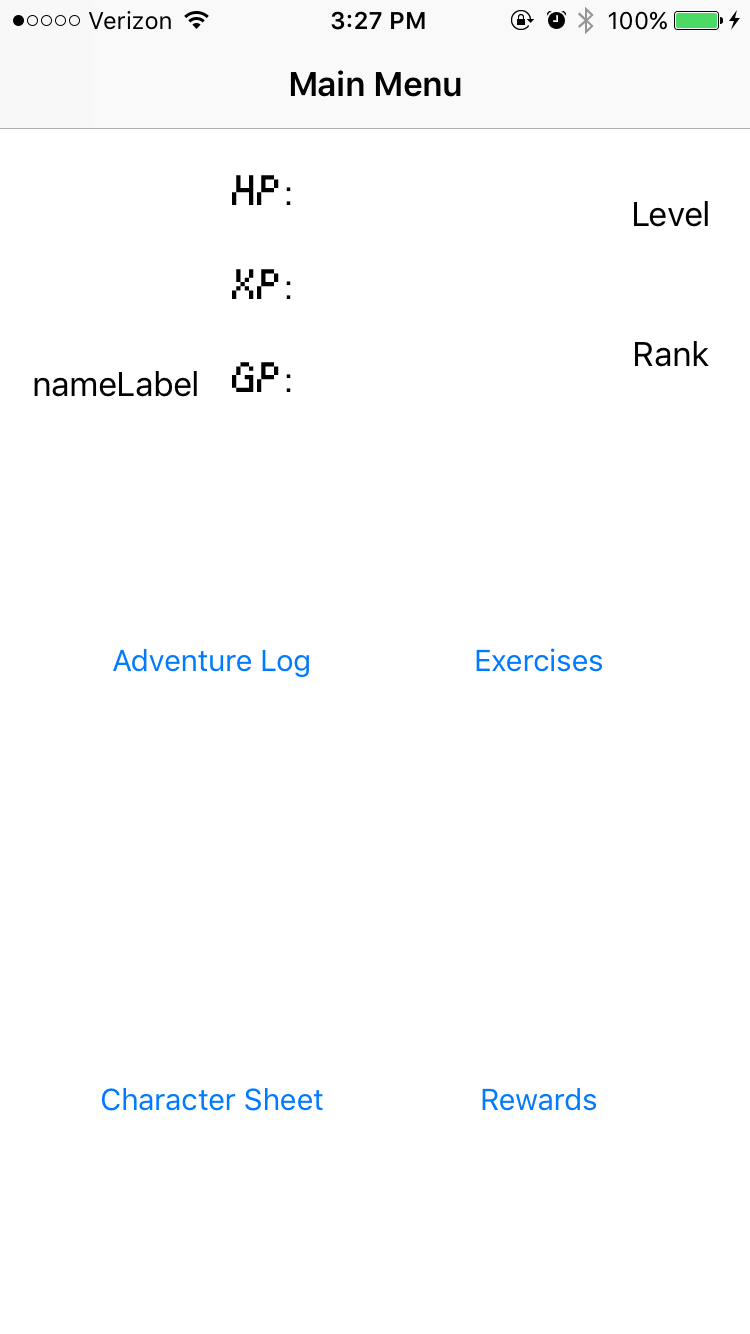
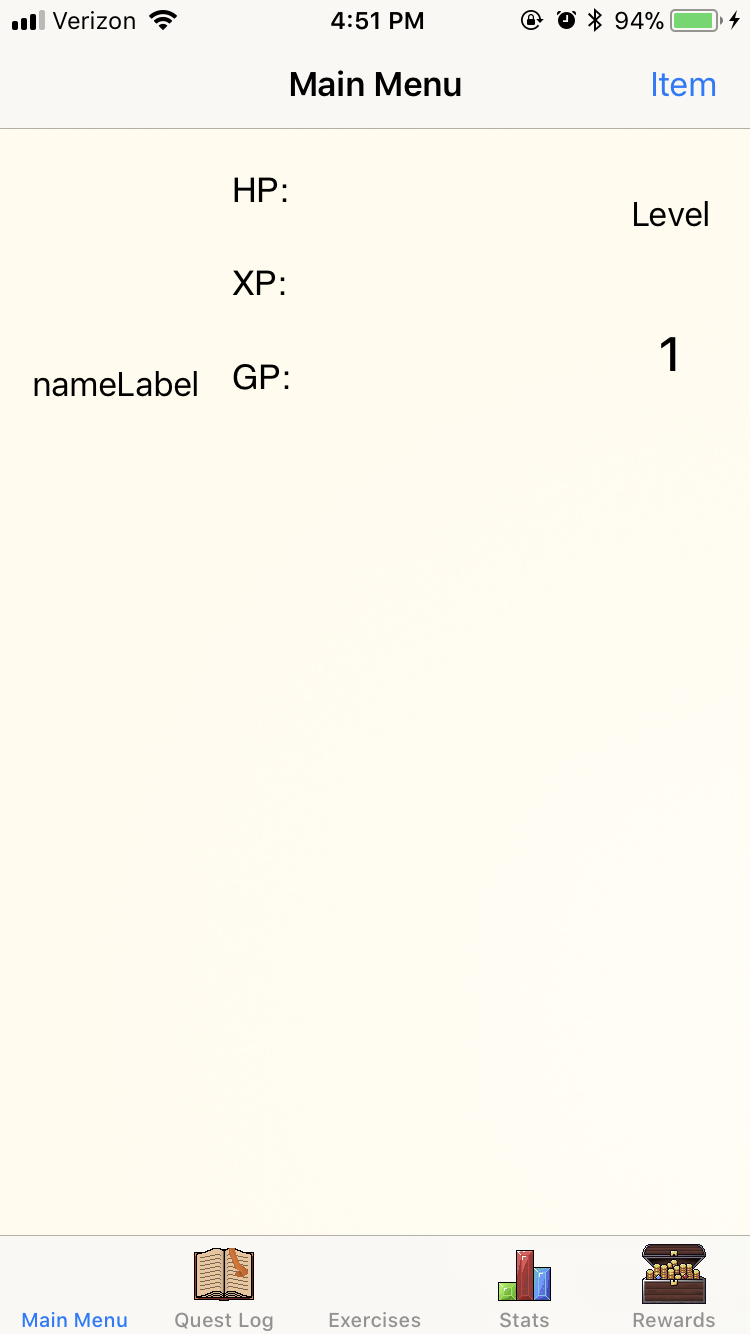
Added new GainBoy images

diff --git a/client/partials/main.html b/client/partials/main.html
@@ -33,9 +33,9 @@
         <p class="aboutdesc" ng-style="aboutStyle">Hey there! A brief background on how I became a programmer: For most
             of my life, I struggled in academia. I had a good head on my shoulders, but something about the academic
             process couldn't inspire me. As a gamer, I was amazed by the worlds and experiences that could be built with
-            programming, but had little love for lectures and theory. By the time college came around, I realized that
+            programming, but had little love for lectures and theory. As college came around, I realized that
             school was just stalling me from pursuing what I really wanted. I wanted to build and I wanted to build
-            now. After years of spinning my wheels, I decided to drop out of school and attend a coding bootcamp.
+            now. After years of spinning my wheels in school, I decided to drop out and attend a coding bootcamp.
             That's my class you see up there! After coding 80+ hours a week for 3 1/2 hard months, I am even more
             amazed by what programmers have done and excited to finally join in on the fun.
             <br><br>

diff --git a/client/controllers/portfolioController.js b/client/controllers/portfolioController.js
@@ -39,7 +39,7 @@ app.controller("portfolioController", function($scope, $location, $route, $timeo
         images: [
             ["portfolio-images/LSRIS-main.png", "portfolio-images/LSRIS-sample1.png", "portfolio-images/LSRIS-sample2.png"],
             ["portfolio-images/tamagotchi-main.png", "portfolio-images/tamagotchi-map.png", "portfolio-images/tamagotchi-items.png"],
-            ["portfolio-images/gainboy-main.png", "portfolio-images/gainboy-log.png", "portfolio-images/gainboy-log-sample.png"],
+            ["portfolio-images/gainboy-main.png", "portfolio-images/gainboy-log.png", "portfolio-images/gainboy-log-sample.png", "portfolio-images/gainboy-log-sample-edit.png"],
             ["portfolio-images/scavengers-sample1.png", "portfolio-images/scavengers-sample2.png", "portfolio-images/scavengers-inv.png"]
         ],
         changeImg: function(direction, imageIdx) {
